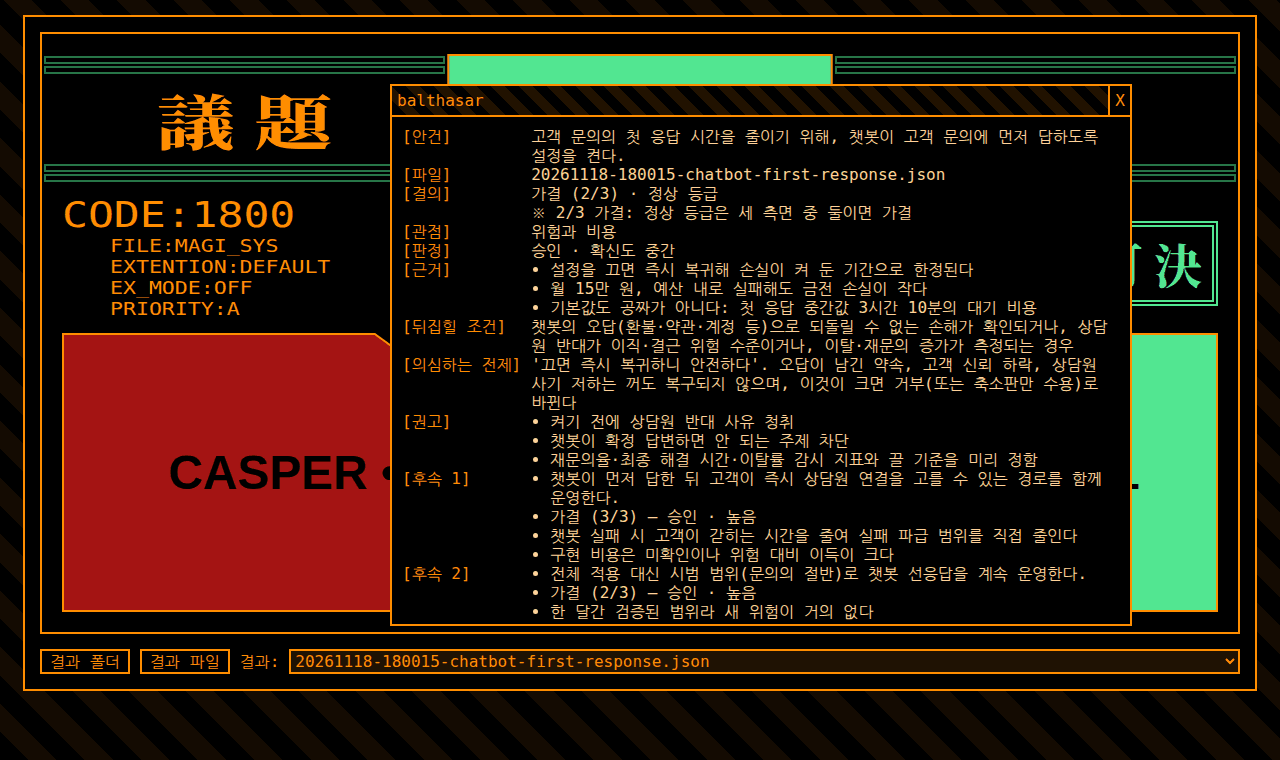
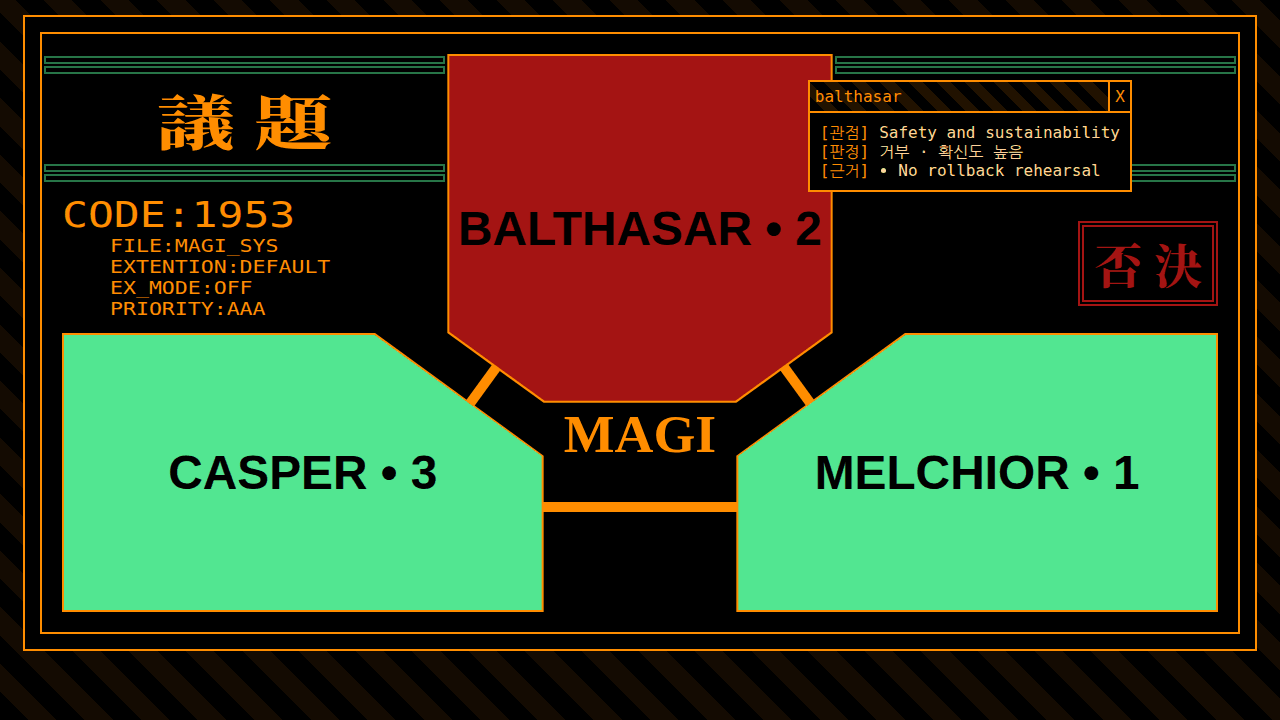
No input row: drop or click MAGI to load; click 議題 / 決議 / a unit to read
- The results folder, result files and list controls are gone; the
  screen holds only the MAGI panel. Results load by dropping files or a
  folder on the page, or by clicking MAGI to choose a folder; the arrow
  keys move between the results loaded.
- 議題 opens the agenda (question, follow-up proposals, file); 決議 or
  the result box opens the resolution (approvals, grade, note,
  follow-ups' resolutions, minority opinion); a unit panel opens that
  unit's opinion. Esc closes the window.

Claude-Session: https://claude.ai/code/session_019gAmzVBR4iHF7Kk5MEGJPG

diff --git a/magi-ui.html b/magi-ui.html
@@ -6,7 +6,9 @@
 <title>MAGI-UI</title>
 <!--
   MAGI-UI: a single-file viewer for results of the MAGI skill (result format version 2).
-  Open this file in a browser, then choose a results folder or drop result files on the page.
+  Open this file in a browser and drop result files or a results folder on the page, or click MAGI
+  to choose a folder. Click 議題 for the agenda, 決議 for the resolution, a unit for its opinion;
+  the left and right arrow keys move between the results loaded.
   Files are read locally with the File API; nothing is sent anywhere.
 
   The screen is the one of TomaszRewak/MAGI (https://github.com/TomaszRewak/MAGI, MIT License,
@@ -321,7 +323,7 @@ body {
 .magi>.header>span { transform: scaleX(1.3); }
 
 /* The status lines in a monospace face even where Lucida Console is missing. */
-.magi>.system-status, .modal, .input-container {
+.magi>.system-status, .modal {
     font-family: 'Lucida Console', 'DejaVu Sans Mono', Consolas, monospace;
 }
 
@@ -332,21 +334,9 @@ body {
 .modal ul { margin: 0; padding-left: 1.2em; }
 .modal .note { color: #ff8d00; }
 
-/* The input row: a results folder, files, and the list of results. */
-.input-container { grid-template-columns: auto auto auto 1fr; align-items: center; }
-.input-container>label.pick {
-    border: 2px solid #ff8d00;
-    padding: 1px 8px;
-    cursor: pointer;
-}
-.input-container input[type=file] { display: none; }
-.input-container>select {
-    background: #1f1203;
-    border: 2px solid #ff8d00;
-    color: #ff8d00;
-    font: inherit;
-    min-width: 0;
-}
+/* No input row: drop files or click MAGI to load; click the headers and panels to read. */
+.magi>.header, .magi>.response, .magi>.title { cursor: pointer; }
+#pick-folder { display: none; }
 body.over .system { outline: 3px dashed #ff8d00; outline-offset: 6px; }
 </style>
 </head>
@@ -356,21 +346,16 @@ body.over .system { outline: 3px dashed #ff8d00; outline-offset: 6px; }
         <div class="connection casper-balthasar"></div>
         <div class="connection casper-melchior"></div>
         <div class="connection balthasar-melchior"></div>
-        <div class="header left"><hr><hr><span>議 題</span><hr><hr></div>
-        <div class="header right"><hr><hr><span>決 議</span><hr><hr></div>
+        <div class="header left" id="agenda-header" title="agenda"><hr><hr><span>議 題</span><hr><hr></div>
+        <div class="header right" id="resolution-header" title="resolution"><hr><hr><span>決 議</span><hr><hr></div>
         <div class="system-status" id="status"></div>
         <div class="wise-man melchior" data-unit="melchior"><div class="inner">MELCHIOR • 1</div></div>
         <div class="wise-man balthasar" data-unit="balthasar"><div class="inner">BALTHASAR • 2</div></div>
         <div class="wise-man casper" data-unit="casper"><div class="inner">CASPER • 3</div></div>
         <div class="response" id="response"><div class="inner" id="response-text">情 報</div></div>
-        <div class="title">MAGI</div>
+        <div class="title" id="magi-title" title="choose a results folder">MAGI</div>
     </div>
-    <div class="input-container">
-        <label class="pick"><input type="file" id="pick-folder" webkitdirectory multiple><span id="label-folder"></span></label>
-        <label class="pick"><input type="file" id="pick-files" accept=".json,application/json" multiple><span id="label-files"></span></label>
-        <span id="label-results"></span>
-        <select id="results" aria-label="results"></select>
-    </div>
+    <input type="file" id="pick-folder" webkitdirectory multiple>
     <div class="modal" id="modal" hidden>
         <div class="modal-header"><div class="modal-title" id="modal-title"></div><div class="close" id="modal-close">X</div></div>
         <div class="modal-body" id="modal-body"></div>
@@ -405,7 +390,7 @@ const RESPONSE = {
 
 const TEXT = {
     en: {
-        folder: 'results folder', files: 'result files', results: 'result:', none: '— none —',
+        agendaTitle: 'agenda', resolutionTitle: 'resolution', followUps: 'follow-ups:', position: 'result:',
         question: 'question:', file: 'file:', resolution: 'resolution:', verdict: 'verdict:', confidence: 'confidence:',
         perspective: 'perspective:', rationale: 'rationale:', flip: 'would flip:', premise: 'doubted premise:',
         recommend: 'recommendations:', answer: 'answer:', error: 'error:', followUp: 'follow-up', minority: 'minority:',
@@ -417,10 +402,10 @@ const TEXT = {
         hold: '* on hold: a result of a skill version before 1.6.0 (no screen label, shown as 情報)',
         unitError: '* a unit failed, so the resolution is an error rather than a vote of two',
         invalid: m => `result format error: ${m}`, json: m => `JSON error: ${m}`,
-        waiting: 'Choose a results folder or drop result files on the page.',
+        waiting: 'Drop result files or a results folder on the page, or click MAGI to choose a folder.',
     },
     ko: {
-        folder: '결과 폴더', files: '결과 파일', results: '결과:', none: '— 없음 —',
+        agendaTitle: '안건', resolutionTitle: '결의', followUps: '[후속 안건]', position: '[결과]',
         question: '[안건]', file: '[파일]', resolution: '[결의]', verdict: '[판정]', confidence: '[확신도]',
         perspective: '[관점]', rationale: '[근거]', flip: '[뒤집힐 조건]', premise: '[의심하는 전제]',
         recommend: '[권고]', answer: '[답]', error: '[오류]', followUp: '[후속', minority: '[소수 의견]',
@@ -432,7 +417,7 @@ const TEXT = {
         hold: '※ 보류: 스킬 1.6.0 이전 버전의 결과 (대응하는 화면 라벨이 없어 情報로 표시)',
         unitError: '※ 유닛 하나가 실패해서 두 유닛의 표로 정하지 않고 오류로 처리',
         invalid: m => `결과 형식 오류: ${m}`, json: m => `JSON 형식 오류: ${m}`,
-        waiting: '결과 폴더를 고르거나 결과 파일을 화면에 끌어다 놓으세요.',
+        waiting: '결과 파일이나 결과 폴더를 화면에 끌어다 놓거나, MAGI를 눌러 폴더를 고르세요.',
     },
 };
 const LANG = (new URLSearchParams(location.search).get('lang') || navigator.language || 'en').toLowerCase().startsWith('ko') ? 'ko' : 'en';
@@ -514,7 +499,6 @@ function noteFor(d) {
 
 // --- the screen ---
 let current = null;   // { data, file, error }
-let openUnit = null;
 
 function flicker(node) {
     node.classList.add('flicker');
@@ -543,49 +527,64 @@ function render(animate) {
         if (animate) flicker(inner);
     }
     if (animate) flicker(box);
-    if (openUnit) showModal(openUnit);
+    if (openWindow) showWindow(openWindow);
 }
 
 const list = items => el('ul', {}, ...items.map(i => el('li', {}, String(i))));
-function showModal(key) {
-    openUnit = key;
-    const u = UNITS.find(x => x.key === key);
+let openWindow = null;   // 'agenda', 'resolution', or a unit key
+function showWindow(kind) {
+    openWindow = kind;
     const rows = [];
     const add = (label, value) => {
         if (value === undefined || value === null || value === '' || (Array.isArray(value) && !value.length)) return;
         rows.push(el('div', {}, label), el('div', {}, Array.isArray(value) ? list(value) : String(value)));
     };
-    $('modal-title').textContent = u.name;
+    const unit = UNITS.find(x => x.key === kind);
+    $('modal-title').textContent = unit ? unit.name : kind === 'agenda' ? T.agendaTitle : T.resolutionTitle;
     if (!current) {
-        add(T.question, T.waiting);
+        rows.push(el('div', {}), el('div', {}, T.waiting));
     } else if (current.error) {
         add(T.file, current.file.name);
         add(T.error, current.error);
     } else {
-        const d = current.data, unit = d.units[key];
-        add(T.question, d.agenda);
-        add(T.file, current.file.name);
-        if (d.mode === 'deliberation') {
-            add(T.resolution, `${T[d.verdict] || d.verdict} (${approvals(d)}/3) · ${T[d.grade]}${d.grade_raised ? ' ↑' : ''}`);
-            const note = noteFor(d);
-            if (note) rows.push(el('div', {}), el('div', { class: 'note' }, note));
-            add(T.perspective, unit.perspective);
-            add(T.verdict, [T[unit.verdict] || unit.verdict, unit.confidence ? `${T.confidence.replace(/[\[\]:]/g, '')} ${T[unit.confidence] || unit.confidence}` : ''].filter(Boolean).join(' · '));
-            add(T.error, unit.error);
-            add(T.rationale, unit.rationale);
-            add(T.flip, unit.flip_condition);
-            add(T.premise, unit.doubted_premise);
-            add(T.recommend, unit.recommendations);
+        const d = current.data;
+        if (kind === 'agenda') {
+            add(T.question, d.agenda);
+            add(T.followUps, (d.follow_ups || []).map((f, i) => `${i + 1}. ${f.agenda}`));
+            add(T.file, current.file.name);
+            if (files.length > 1) add(T.position, `${files.indexOf(current.file) + 1} / ${files.length}  (← →)`);
+        } else if (kind === 'resolution') {
+            if (d.mode === 'deliberation') {
+                add(T.resolution, `${T[d.verdict] || d.verdict} (${approvals(d)}/3) · ${T[d.grade]}${d.grade_raised ? ' ↑' : ''}`);
+                const note = noteFor(d);
+                if (note) rows.push(el('div', {}), el('div', { class: 'note' }, note));
+                (d.follow_ups || []).forEach((f, i) => {
+                    const label = LANG === 'ko' ? `${T.followUp} ${i + 1}]` : `${T.followUp} ${i + 1}:`;
+                    add(label, `${T[f.verdict] || f.verdict} (${approvals(f)}/3)${f.grade ? ' · ' + T[f.grade] : ''}`);
+                });
+                add(T.minority, d.minority);
+            } else {
+                add(T.resolution, T.information);
+            }
+        } else if (d.mode === 'deliberation') {
+            const u = d.units[kind];
+            add(T.perspective, u.perspective);
+            add(T.verdict, [T[u.verdict] || u.verdict, u.confidence ? `${T.confidence.replace(/[\[\]:]/g, '')} ${T[u.confidence] || u.confidence}` : ''].filter(Boolean).join(' · '));
+            add(T.error, u.error);
+            add(T.rationale, u.rationale);
+            add(T.flip, u.flip_condition);
+            add(T.premise, u.doubted_premise);
+            add(T.recommend, u.recommendations);
             (d.follow_ups || []).forEach((f, i) => {
-                const fu = f.units && f.units[key];
+                const fu = f.units && f.units[kind];
                 if (!fu) return;
                 const label = LANG === 'ko' ? `${T.followUp} ${i + 1}]` : `${T.followUp} ${i + 1}:`;
-                add(label, [f.agenda, `${T[f.verdict] || f.verdict} (${approvals(f)}/3) — ${T[fu.verdict] || fu.verdict}${fu.confidence ? ' · ' + (T[fu.confidence] || fu.confidence) : ''}`, ...(fu.rationale || []), fu.error || ''].filter(Boolean));
+                add(label, [f.agenda, `${T[fu.verdict] || fu.verdict}${fu.confidence ? ' · ' + (T[fu.confidence] || fu.confidence) : ''}`, ...(fu.rationale || []), fu.error || ''].filter(Boolean));
             });
-            add(T.minority, d.minority);
         } else {
-            add(T.perspective, unit.perspective);
-            add(T.answer, unit.answer);
+            const u = d.units[kind];
+            add(T.perspective, u.perspective);
+            add(T.answer, u.answer);
         }
     }
     $('modal-body').replaceChildren(...rows);
@@ -597,7 +596,6 @@ let files = [];
 function setFiles(incoming) {
     files = [...incoming].filter(f => f.name.toLowerCase().endsWith('.json'))
         .sort((a, b) => (b.name > a.name) - (b.name < a.name) || b.lastModified - a.lastModified);
-    $('results').replaceChildren(...(files.length ? files.map((f, i) => el('option', { value: String(i) }, f.name)) : [el('option', {}, T.none)]));
     if (files.length) load(files[0]);
 }
 async function load(file) {
@@ -615,15 +613,19 @@ async function load(file) {
     render(true);
 }
 
-$('label-folder').textContent = T.folder;
-$('label-files').textContent = T.files;
-$('label-results').textContent = T.results;
-$('results').replaceChildren(el('option', {}, T.none));
 $('pick-folder').addEventListener('change', e => setFiles(e.target.files));
-$('pick-files').addEventListener('change', e => setFiles(e.target.files));
-$('results').addEventListener('change', e => { const f = files[Number(e.target.value)]; if (f) load(f); });
-$('modal-close').addEventListener('click', () => { openUnit = null; $('modal').hidden = true; });
-document.querySelectorAll('.wise-man').forEach(w => w.addEventListener('click', () => showModal(w.dataset.unit)));
+$('magi-title').addEventListener('click', () => $('pick-folder').click());
+$('agenda-header').addEventListener('click', () => showWindow('agenda'));
+$('resolution-header').addEventListener('click', () => showWindow('resolution'));
+$('response').addEventListener('click', () => showWindow('resolution'));
+$('modal-close').addEventListener('click', () => { openWindow = null; $('modal').hidden = true; });
+document.querySelectorAll('.wise-man').forEach(w => w.addEventListener('click', () => showWindow(w.dataset.unit)));
+document.addEventListener('keydown', e => {
+    if (e.key === 'Escape') { openWindow = null; $('modal').hidden = true; return; }
+    if (!current || files.length < 2 || (e.key !== 'ArrowLeft' && e.key !== 'ArrowRight')) return;
+    const i = files.indexOf(current.file) + (e.key === 'ArrowRight' ? 1 : -1);
+    if (i >= 0 && i < files.length) load(files[i]);
+});
 document.addEventListener('dragover', e => { e.preventDefault(); document.body.classList.add('over'); });
 document.addEventListener('dragleave', () => document.body.classList.remove('over'));
 document.addEventListener('drop', e => { e.preventDefault(); document.body.classList.remove('over'); setFiles(e.dataTransfer.files); });

diff --git a/README.md b/README.md
@@ -8,15 +8,23 @@ A viewer for results of the [MAGI skill](https://github.com/jwsung91/MAGI): one 
 |---|---|
 | ![A critical proposal rejected at 2/3: BALTHASAR-2 red, the others green, result 否決](docs/screenshot-rejected-critical.png) | ![The BALTHASAR-2 window over the screen: agenda, resolution, rationale, follow-ups](docs/screenshot-modal.png) |
 
-Left: `samples/09_rejected_critical_2of3.json`. Right: a real result of the skill (1.6.0, the Korean chatbot fixture, passed 2/3) with BALTHASAR-2 clicked.
+Left: `samples/09_rejected_critical_2of3.json`. Right: the same result with BALTHASAR-2 clicked, Korean labels.
 
 ## Use
 
 1. Open `magi-ui.html` in a browser (Chrome, Edge, Firefox, Safari).
-2. Click **results folder** and choose the folder the skill writes to, or **result files**, or drop result files on the page. The newest result opens; the list at the bottom switches between them.
-3. Click a unit panel: a window shows the agenda, the resolution, and that unit's verdict, confidence, rationale, what would flip it, doubted premise, recommendations, votes on follow-up proposals, and the minority opinion.
+2. Drop result files or the results folder on the page, or click **MAGI** in the middle to choose the folder. The newest result opens; the left and right arrow keys move between the results loaded.
+3. Click to read:
 
-Labels follow the browser language (English or Korean); add `?lang=ko` or `?lang=en` to the address to choose. Files are read in the browser with the File API and go nowhere. To see a result written after you chose the folder, choose the folder again.
+| Click | Window |
+|---|---|
+| 議題 | The agenda (the question), the follow-up proposals, the file |
+| 決議, or the result box | The resolution, approvals and grade, a note where the label alone could mislead, the follow-ups' resolutions, the minority opinion |
+| A unit panel | That unit's verdict, confidence, rationale, what would flip it, doubted premise, recommendations, and its votes on follow-ups |
+
+Esc or X closes the window. There are no other controls on the screen.
+
+Labels follow the browser language (English or Korean); add `?lang=ko` or `?lang=en` to the address to choose. Files are read in the browser with the File API and go nowhere. To see a result written after you loaded the folder, load it again.
 
 ## Connect the skill
 
@@ -28,7 +36,7 @@ claude
 # /magi <your proposal>   → the result file path is printed at the end
 ```
 
-Then choose `~/magi-results` as the results folder.
+Then drop `~/magi-results` on the viewer, or click MAGI and choose it.
 
 ## What the screen shows
 
@@ -38,8 +46,7 @@ Then choose `~/magi-results` as the results folder.
 | Result box | The resolution: 可決 / 否決 / 情報 / 異常 (below) |
 | Unit panels | Each unit's verdict: green approve, red reject, black error; blue in information mode |
 | Status lines | Filled from the result (below) |
-| Window on click | The agenda, the resolution with a note where the label alone could mislead, and the unit's opinion |
-| Input row | Results folder, result files, and the list of results |
+| Windows on click | See Use above |
 
 | Resolution | Label | Note |
 |---|---|---|
